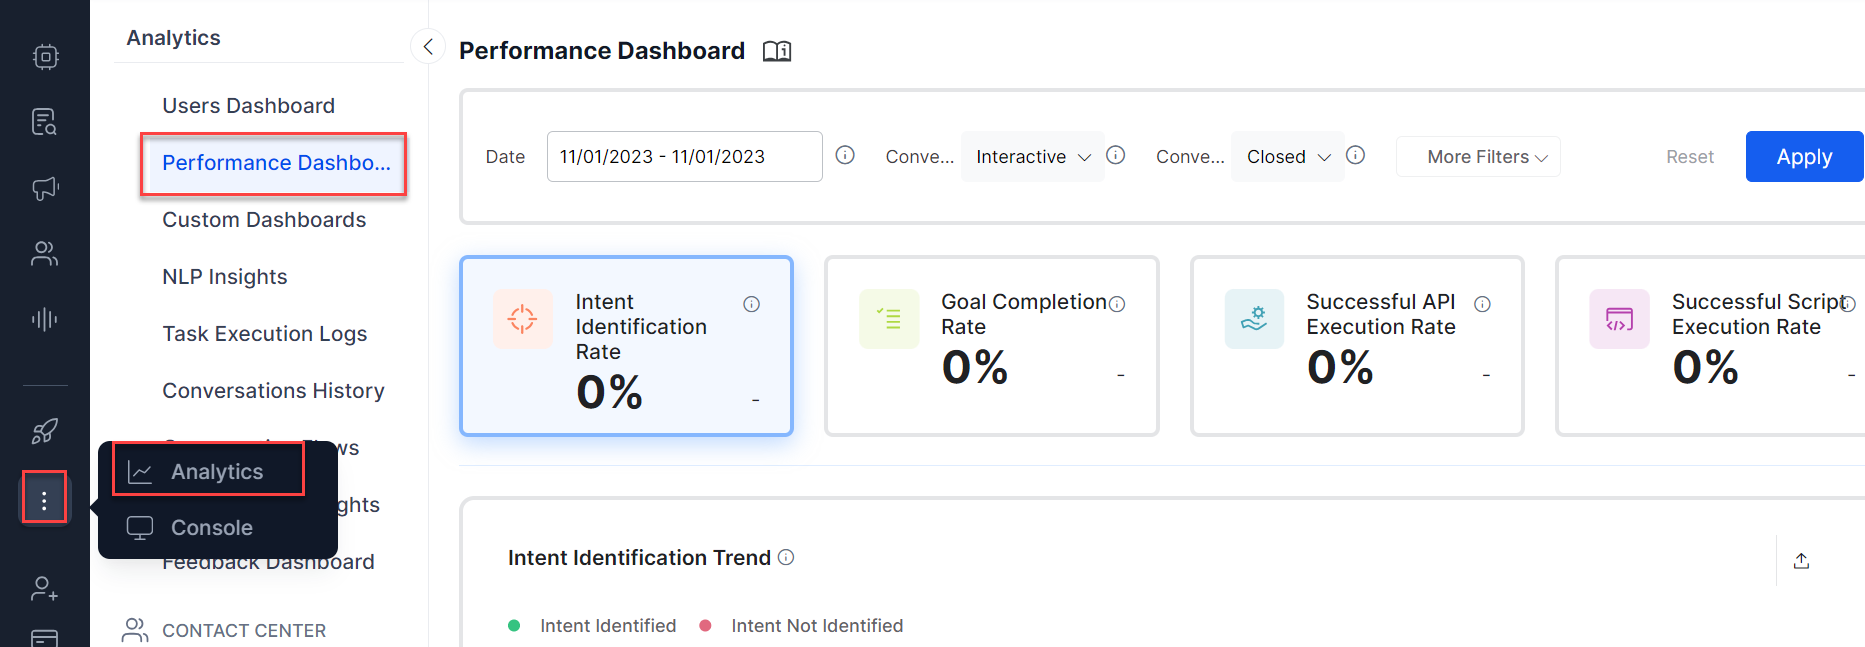
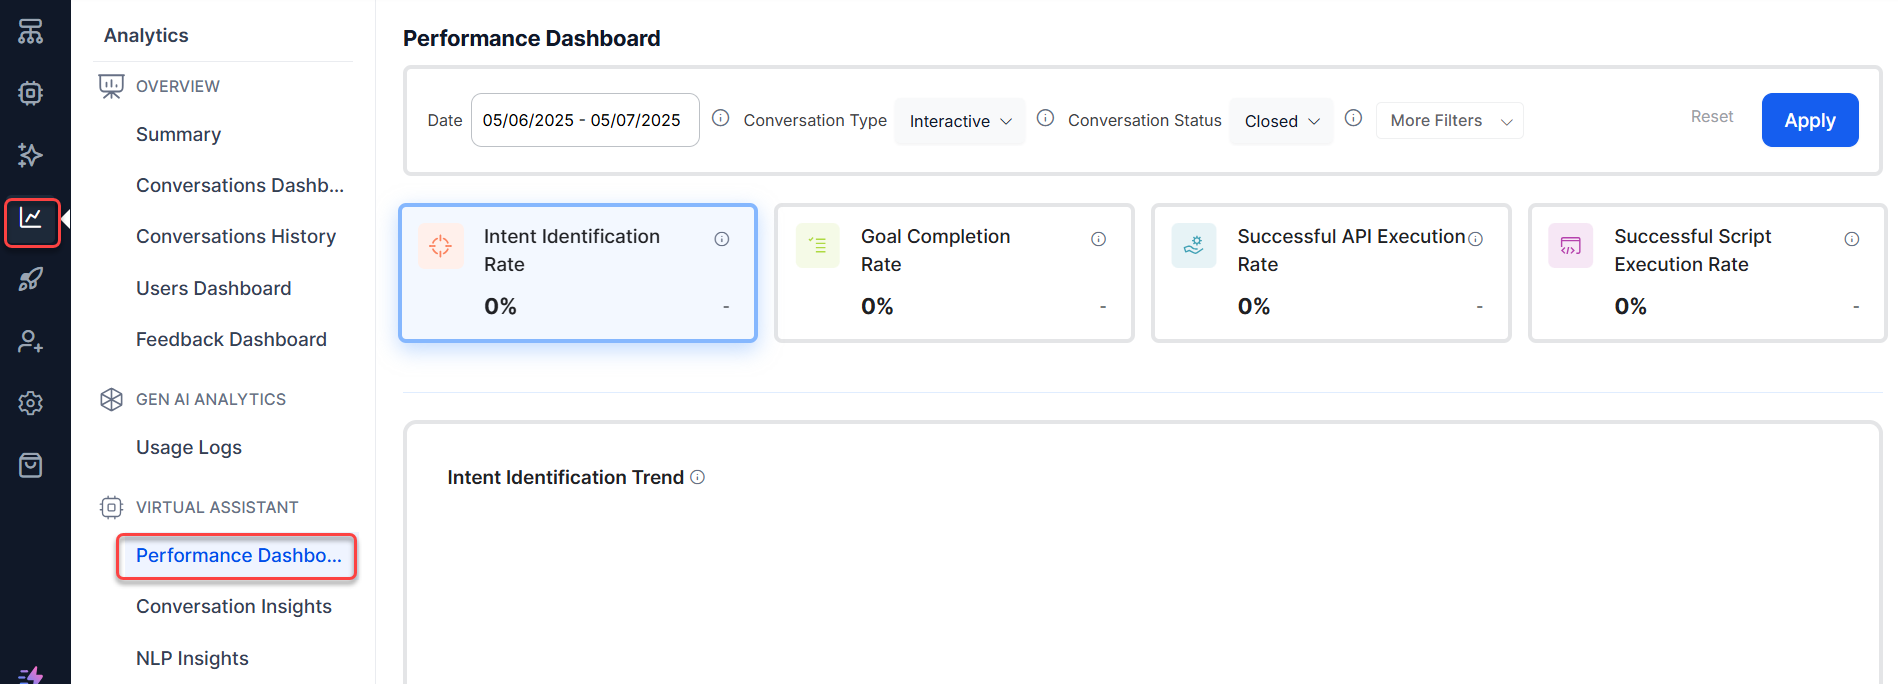
updated analytics docs

diff --git a/docs/xo/analytics/automation/conversation-insights.md b/docs/xo/analytics/automation/conversation-insights.md
@@ -4,7 +4,7 @@ Once a virtual assistant is published, it is important to understand and analyze
 
 **To view the Conversation Insights dashboard, follow the steps**: 
 
-1. Click the three dots on the left navigation pane and then click **Analytics**. **The Analytics** panel is displayed with the list of reports.
+1.  Click **Analytics** on the left navigation pane. The Analytics panel is displayed with the list of reports.
 
     <img src="../images/conversation-insights-dashboards.png" alt="Conversation Insights Dashboards" title="Conversation Insights Dashboards" style="border: 1px solid gray; zoom:60%;">
 

diff --git a/docs/xo/analytics/automation/performance-dashboard.md b/docs/xo/analytics/automation/performance-dashboard.md
@@ -5,7 +5,7 @@ After you publish a Virtual Assistant (VA), you can monitor its performance usin
 **To view the Performance dashboard, follow the steps**: 
 
 
-1. Click the three dots on the left navigation pane and then click **Analytics**. **The Analytics** panel is displayed with the list of reports.
+1. Click **Analytics** on the left navigation pane. The Analytics panel is displayed with the list of reports.
 
     <img src="../images/performance-dashboard-overview.png" alt="Performance Dashboard Overview" title="Performance Dashboard Overview" style="border: 1px solid gray; zoom:80%;">
 
